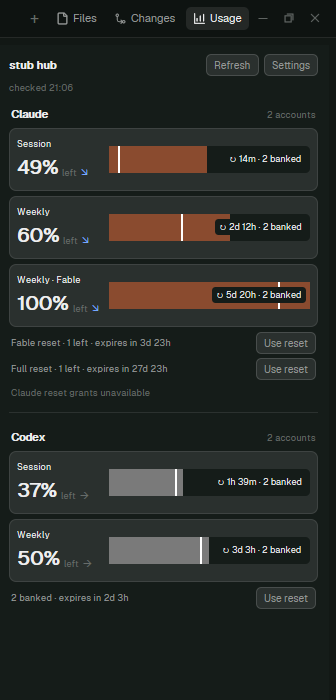
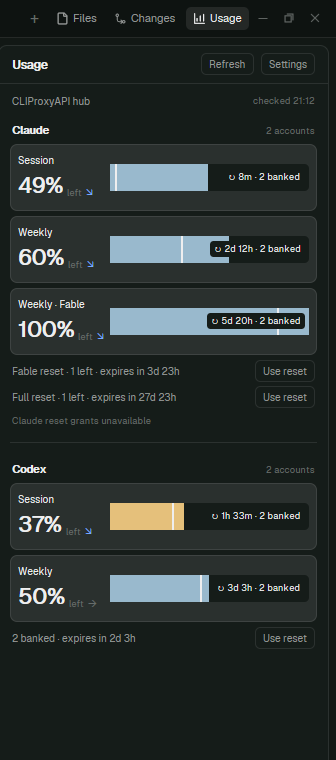
Match native panel framing and adopt theme-aware quota colors

diff --git a/cliproxy-usage/main.js b/cliproxy-usage/main.js
@@ -352,10 +352,11 @@ export default class CliproxyUsage extends View {
   }
 
   button(t, id, text, primary, action) {
-    return h_flex().id(id).h(24).px(8).flex_none().rounded(6).border_1()
-      .border_color(primary ? t.solid : t.input).bg(primary ? t.solid : t.raised)
+    return h_flex().id(id).h(24).px(8).flex_none().items_center().justify_center().rounded(6).border_1()
+      .border_color(primary ? t.solid : t.border).bg(primary ? t.solid : t.background)
       .text_color(primary ? t.solid_foreground : t.muted).text_size(11).font_medium()
-      .cursor_pointer().hover((style) => style.opacity(0.85)).on_click(action).child(text);
+      .cursor_pointer().hover((style) => primary ? style.opacity(0.88) : style.bg(t.hover).text_color(t.foreground))
+      .on_click(action).child(text);
   }
 
   panel(t) {
@@ -364,7 +365,7 @@ export default class CliproxyUsage extends View {
       : this.checkedAt
         ? `checked ${clockOf(this.checkedAt) ?? "—"}`
         : "not checked yet";
-    let body = v_flex().flex_1().min_h(0).gap(8).px(12).pb(12).overflow_y_scrollbar();
+    let body = v_flex().id("cpu-content").flex_1().min_h(0).gap(10).px(12).pb(12).overflow_y_scrollbar();
     if (!this.config) {
       if (!this.ready) {
         body = body.child(div().text_size(11.5).text_color(t.dim).child("Reading the hub settings…"));
@@ -387,14 +388,21 @@ export default class CliproxyUsage extends View {
         body = body.child(this.card(t, group));
       }
     }
-    return v_flex().size_full().min_h(0).bg(t.background).text_color(t.foreground)
+    // Match the native Files/Changes frame, including the clipped radius and 42 px header.
+    return v_flex().id("cliproxy-usage").size_full().min_h(0).rounded(10).overflow_hidden()
+      .bg(t.background).border_1().border_color(t.border).text_color(t.foreground).text_size(13)
       .child(
-        h_flex().flex_none().gap(6).px(12).pt(10).pb(4)
-          .child(div().flex_1().min_w(0).truncate().text_size(12.5).font_semibold().text_color(t.foreground).child(this.hubLabel()))
-          .child(this.button(t, "cpu-refresh", "Refresh", false, (_event, cx) => this.refreshNow(cx)))
+        h_flex().h(42).flex_none().px(14).gap(8).items_center().border_b(1).border_color(t.border)
+          .child(div().flex_1().font_semibold().child("Usage"))
+          .child(this.button(t, "cpu-refresh", this.busy ? "Checking…" : "Refresh", false, (_event, cx) => this.refreshNow(cx)))
           .child(this.button(t, "cpu-settings", "Settings", false, () => openSettings())),
       )
-      .child(h_flex().flex_none().px(12).pb(8).child(div().text_size(10.5).text_color(t.dim).child(checked)))
+      .child(
+        h_flex().flex_none().px(14).py(10).gap(8).items_center()
+          .child(div().flex_1().min_w(0).truncate().text_size(11).text_color(t.muted).tooltip(this.hubLabel())
+            .child(this.config ? this.hubLabel() : "CLIProxyAPI hub"))
+          .child(div().flex_none().text_size(10.5).text_color(t.dim).child(checked)),
+      )
       .when(Boolean(this.notice), (el) =>
         el.child(
           h_flex().flex_none().px(12).pb(8).child(
@@ -421,11 +429,11 @@ export default class CliproxyUsage extends View {
   }
 
   // One row per pooled window, like t3code's Limits: the big number, a bar whose fill is what is
-  // left, a white tick where an even burn rate would be by now, and a chip with the reset
+  // left, a contrasting tick where an even burn rate would be by now, and a chip with the reset
   // countdown and the banked reset credits.
   pool(t, group, pooled) {
     const left = Math.max(0, Math.min(100, Math.round(pooled.leftPercent)));
-    const fill = left <= 15 ? t.blocked : group.provider === "claude" ? "#8a4b2f" : "#7a7a7a";
+    const fill = left <= 15 ? t.blocked : left <= 40 ? t.working : t.accent;
     const windows = group.accounts.flatMap((a) => a.windows ?? []).filter((w) => w.key === pooled.key);
     const resetsAt = Math.min(...windows.map((w) => w.resetsAt).filter((v) => typeof v === "number"));
     const span = pooled.key === "session" ? 5 * 3600000 : 7 * 86400000;
@@ -447,20 +455,20 @@ export default class CliproxyUsage extends View {
     }[paceState(left, pace)];
     let bar = div().relative().flex_1().min_w(0).h(30).rounded(5).bg(t.surface).overflow_hidden()
       .child(div().absolute().left(0).top(0).h(30).w(`${left}%`).bg(fill));
-    if (pace !== null) bar = bar.child(div().absolute().top(0).left(`${pace}%`).w(2).h(30).bg("#ffffff"));
+    if (pace !== null) bar = bar.child(div().absolute().top(0).left(`${pace}%`).w(2).h(30).bg(t.foreground));
     if (chipText) {
       bar = bar.child(
         h_flex().absolute().right(4).top(6).h(18).px(5).items_center().rounded(4).bg(t.background)
-          .text_size(10).text_color(t.foreground).child(chipText),
+          .text_size(10.5).text_color(t.foreground).child(chipText),
       );
     }
     return h_flex().gap(10).items_center().p(8).rounded(8).border_1().border_color(t.border).bg(t.raised)
       .child(
         v_flex().w(92).flex_none().min_w(0)
-          .child(div().truncate().text_size(10.5).font_medium().text_color(t.foreground).child(label))
+          .child(div().truncate().text_size(11).font_medium().text_color(t.foreground).child(label))
           .child(
             h_flex().gap(4).items_end()
-              .child(div().text_size(22).font_semibold().text_color(t.foreground).child(`${left}%`))
+              .child(div().text_size(24).font_semibold().text_color(t.foreground).child(`${left}%`))
               .child(div().pb(3).text_size(10).text_color(t.dim).child("left"))
               .child(div().pb(2).text_size(12).text_color(trend.color).tooltip(trend.tip).child(trend.glyph)),
           ),
@@ -474,7 +482,7 @@ export default class CliproxyUsage extends View {
     if (account.error) return row.child(div().text_size(10.5).text_color(t.blocked).tooltip(identity).child(account.error));
     const add = (label, id, blocker, action) => {
       row = row.child(h_flex().gap(6).items_center()
-        .child(div().flex_1().min_w(0).text_size(10.5).text_color(t.muted)
+        .child(div().flex_1().min_w(0).text_size(11).text_color(t.muted)
           .tooltip(many ? identity : label).child(label))
         .child(blocker
           ? div().text_size(10).text_color(t.dim).tooltip(blocker).child("Unavailable")

diff --git a/dev/panel.test.js b/dev/panel.test.js
@@ -3,21 +3,21 @@ import assert from "node:assert/strict";
 import fs from "node:fs";
 import vm from "node:vm";
 import { randomUUID } from "node:crypto";
-import { claudeGrantBlocker } from "../cliproxy-usage/hub.js";
+import { claudeGrantBlocker, paceState } from "../cliproxy-usage/hub.js";
 
 const journal = new Map(), tasks = [], overlays = [];
 let claims = 0, answer = "unknown";
 function element() {
-  const node = { items: [], child(v) { this.items.push(v); return proxy; }, children(v) { this.items.push(...v); return proxy; } };
+  const node = { styles: {}, items: [], child(v) { this.items.push(v); return proxy; }, children(v) { this.items.push(...v); return proxy; } };
   const proxy = new Proxy(node, { get(target, key) {
     if (key in target) return target[key];
     if (key === "when") return (test, fn) => test ? fn(proxy) : proxy;
-    return () => proxy;
+    return (...args) => { node.styles[key] = args; return proxy; };
   } });
   return proxy;
 }
 const context = vm.createContext({
-  View: class {}, div: element, h_flex: element, v_flex: element, randomUUID, claudeGrantBlocker,
+  View: class {}, div: element, h_flex: element, v_flex: element, randomUUID, claudeGrantBlocker, paceState,
   consumeClaudeResetGrant: async () => { claims++; return { outcome: answer }; },
   appHome: () => "/test", openOverlay: (o) => overlays.push(o),
   readTextFile: async (p) => journal.get(p) ?? null,
@@ -67,4 +67,26 @@ assert.equal(claims, 2, "double command only sends one new claim");
 assert.equal([...journal.values()][0].trim(), "{}", "terminal outcome clears journal");
 assert.equal(reload.notice.text, "Reset applied.");
 assert.equal(reload.resetBusy, false);
+// The native panel frame and quota colors must follow the supplied theme, not fixed hex colors.
+function nodes(node) { return typeof node === "string" ? [] : [node, ...(node?.items ?? []).flatMap(nodes)]; }
+for (const background of ["#151b18", "#fafafa"]) {
+  const t = { background, foreground: background === "#fafafa" ? "#202020" : "#eeeeee",
+    border: "#556677", surface: "#334455", raised: "#445566", accent: "#abcdef", working: "#efabcd", blocked: "#cdefab" };
+  p.groups = []; p.busy = false; p.notice = null;
+  const frame = p.panel(t);
+  assert.equal(frame.styles.id[0], "cliproxy-usage");
+  assert.equal(frame.styles.rounded[0], 10);
+  assert.ok(frame.styles.border_1 && frame.styles.overflow_hidden);
+  assert.equal(frame.styles.border_color[0], t.border);
+  assert.equal(frame.styles.bg[0], background);
+  assert.equal(frame.items[0].styles.h[0], 42, "same header height as Files/Changes");
+  assert.equal(frame.items[0].styles.border_color[0], t.border);
+  for (const [leftPercent, color] of [[80, t.accent], [30, t.working], [0, t.blocked]]) {
+    const gauge = p.pool(t, { accounts: [{ windows: [{ key: "session", resetsAt: Date.now() + 3600000 }] }] }, { key: "session", leftPercent });
+    const backgrounds = nodes(gauge).map((n) => n.styles.bg?.[0]);
+    assert.ok(backgrounds.includes(color), "quota fill uses the theme's semantic color");
+    assert.ok(backgrounds.includes(t.foreground), "pace tick contrasts in dark and light themes");
+  }
+}
+assert.ok(!/#[0-9a-f]{3,8}\b/i.test(source), "no hard-coded color literals in the view");
 console.log("panel.test.js: passed");

diff --git a/README.md b/README.md
@@ -4,16 +4,20 @@ A **herdr-app mod** for monitoring [CLIProxyAPI](https://github.com/router-for-m
 
 Despite the repository name, this runs in **herdr-app**, not as a herdr-core plugin. Developed against herdr-app **0.1.15** and herdr-core **0.1.21**.
 
-![Usage panel with Claude and Codex gauges, pace arrows, reset counts and expiry](screenshot.png)
+| Dark (Graphite) | Light (Paper) |
+| --- | --- |
+| ![Usage panel in Graphite](screenshot.png) | ![Usage panel in Paper](screenshot-light.png) |
 
-*Screenshot uses local stub data, not real accounts.*
+*Screenshots use local stub data, not real accounts.*
 
 ## Features
 
 - **Claude and Codex gauges:** Session, Weekly, and model-scoped Claude windows such as **Weekly · Fable**, when reported by the hub.
 - **Usage tab beside Files and Changes:** opens and closes the existing side panel, before the window controls—not a separate column beyond the close button. The panel choice is remembered per space.
 - **Clean subscription sections:** a divider separates Claude and Codex; no redundant email, plan, percentage, or miniature quota rows beneath the gauges.
-- **Pace indicators:** a white tick marks the even-spending target; hover over the arrow for an explanation.
+- **Native panel styling:** the same rounded border, clipped corners, 42px header, and header divider as Files/Changes.
+- **Theme-aware colors:** follows herdr-app's light, dark, and custom themes; no fixed provider colors or white-only markers.
+- **Pace indicators:** a contrasting tick marks the even-spending target; hover over the arrow for an explanation.
 - **Manual resets:** see banked Codex credits and Claude reset grants, including Fable/full resets when available, with remaining count and expiry.
 - **Confirmation before spending:** **Use reset** identifies the account and asks before redeeming anything.
 - **Automatic refresh every 15 minutes**, plus a **Refresh** button. Countdown text is calculated when the panel repaints, not by a second-by-second timer.
@@ -30,6 +34,12 @@ Bars and percentages show quota **left**, not quota used.
 | — Unavailable | The hub did not report a reset time, so pace cannot be calculated. |
 
 The target is the percentage of time remaining in the window. For example, halfway through a window, the even-spending target is **50% quota left**.
+
+## Appearance
+
+Usage automatically follows the theme selected in herdr-app; there is no separate mod theme to configure. Normal quota bars use the theme's **accent** color, low quota (16–40% left) uses **working**, and critical quota (15% or less) uses **blocked**. The pace marker uses the theme's foreground so it remains visible on both light and dark backgrounds.
+
+Borders, cards, buttons, hover states, labels, and status messages use the same native theme tokens as the rest of herdr-app. Checked visually with Graphite, Paper, and Atom One Dark, including the existing panel's 280px minimum width.
 
 ## Requirements
 
